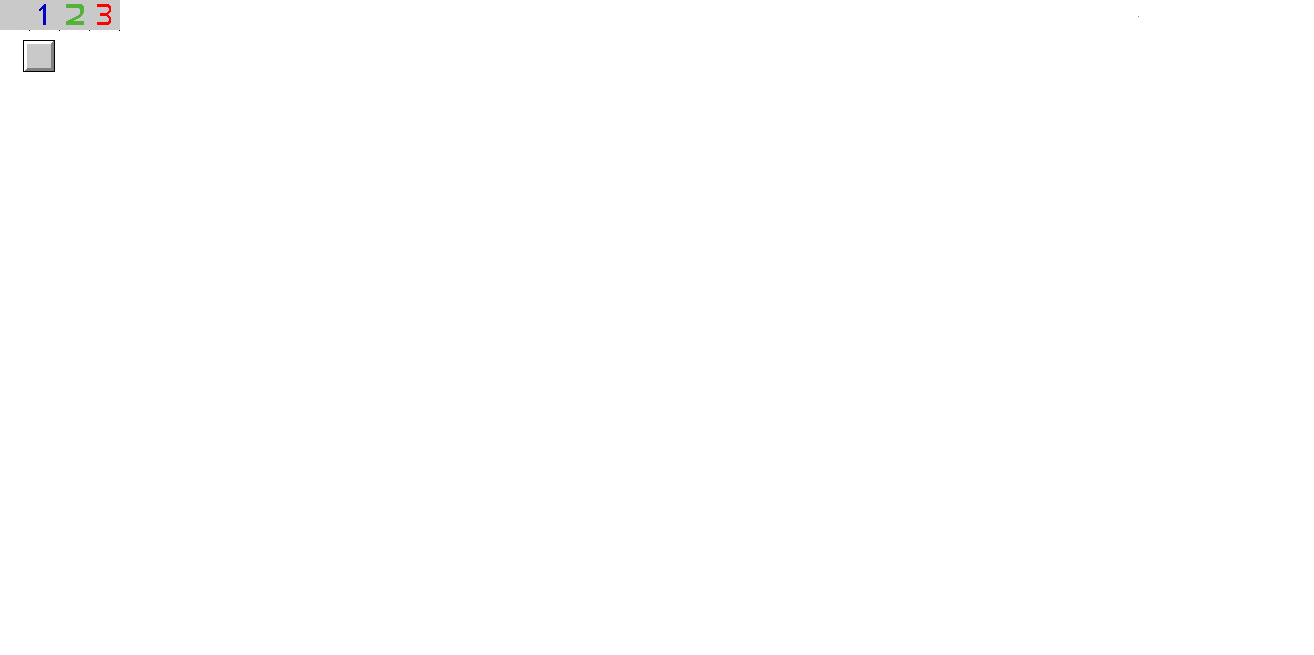
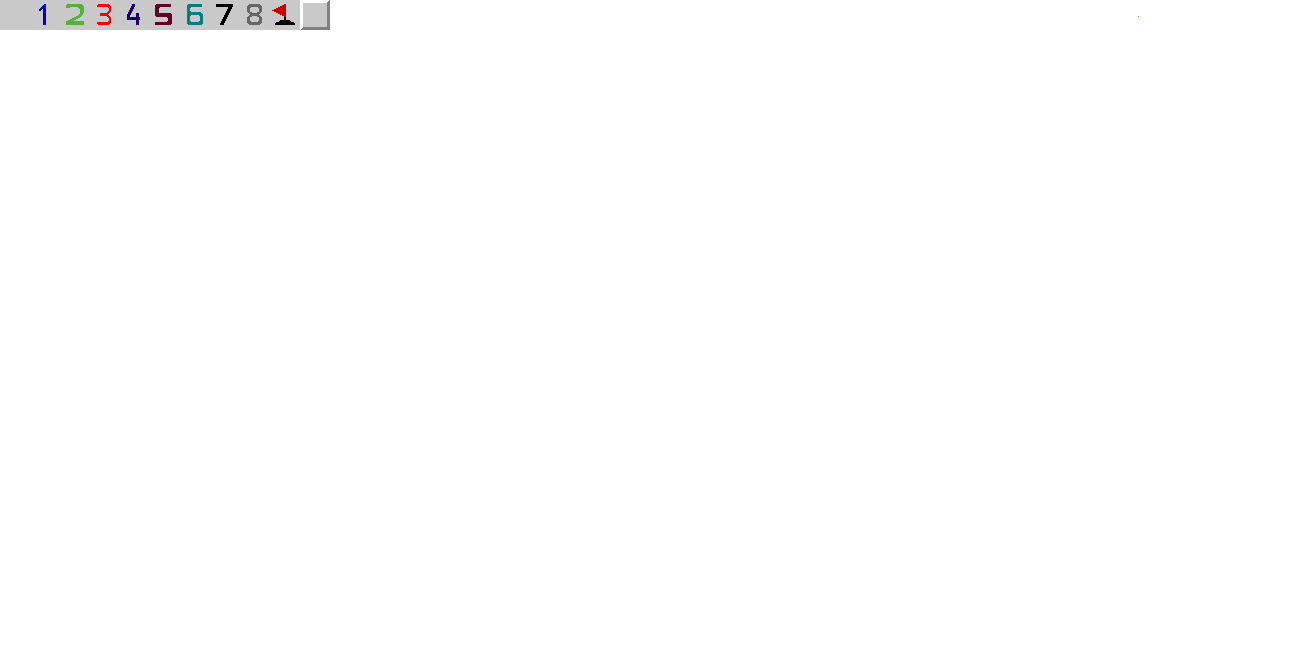
Made a types

Changed region(s): [[0.0936, 0.0, 0.2496, 0.0611], [0.0, 0.0611, 0.0624, 0.1221]]

diff --git a/main.cpp b/main.cpp
@@ -9,16 +9,30 @@
 class Cell
 {
 public:
-    Cell(int x, int y)
+    Cell(int x, int y) 
     {
         this->x = x;
         this->y = y;
+        is_open = false;
+        is_flagged = false;
     }
 
-     int GetType()
-    {
-         return rand()%4;
+     int GetType()                     // designations of types:
+    {                                  // 0 .. 8 - mines_around
+         if (is_open)                  // 9 - flag
+         {                             // 10 - closed cell
+             return mines_around;      
+         }                             
+         else if(is_flagged)
+         {
+             return 9;
+         }
+         else
+         {
+             return 10;
+         }
     }
+
 private:
     bool is_flagged;
     bool is_mine;
@@ -29,8 +43,6 @@ private:
 
     int x;
     int y;
-
-
 };
 
 class Field
@@ -55,16 +67,13 @@ public:
         sf::Sprite cell_sprt;
         cell_sprt.setTexture(texture);
 
-        sf::Vector2i position;
-        position = sf::Mouse::getPosition(window);
-
         int type = 0; 
         for (size_t i = 0; i < COLUMNS; i++)
         {
             for (size_t j = 0; j < ROWS; j++)
             {
-                    Cell temp = cells.at(CELL_SIZE * i + j);
-                    type = temp.GetType();
+                Cell temp = cells.at(CELL_SIZE * i + j);
+                type = temp.GetType();
                 cell_sprt.setTextureRect(sf::IntRect(type*30, 0, 30, 30));
                 cell_sprt.setPosition((CELL_SIZE + 1) * i, (CELL_SIZE+1) * j);
                 window.draw(cell_sprt);
@@ -90,8 +99,9 @@ int main()
                 window.close();
         }
 
-        
-
+        sf::Vector2i position;
+        position = sf::Mouse::getPosition(window);
+        position / CELL_SIZE;
         field.draw(window);
         Sleep(1000);
 
